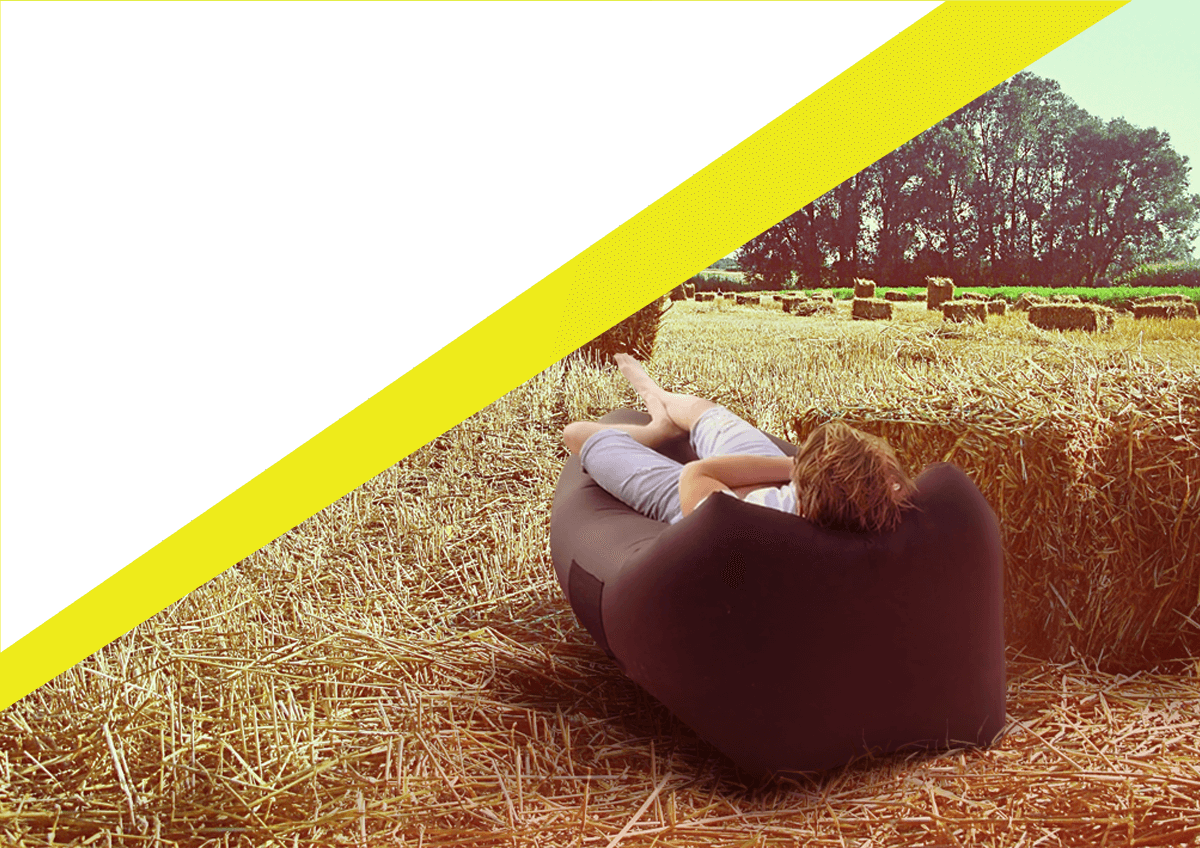
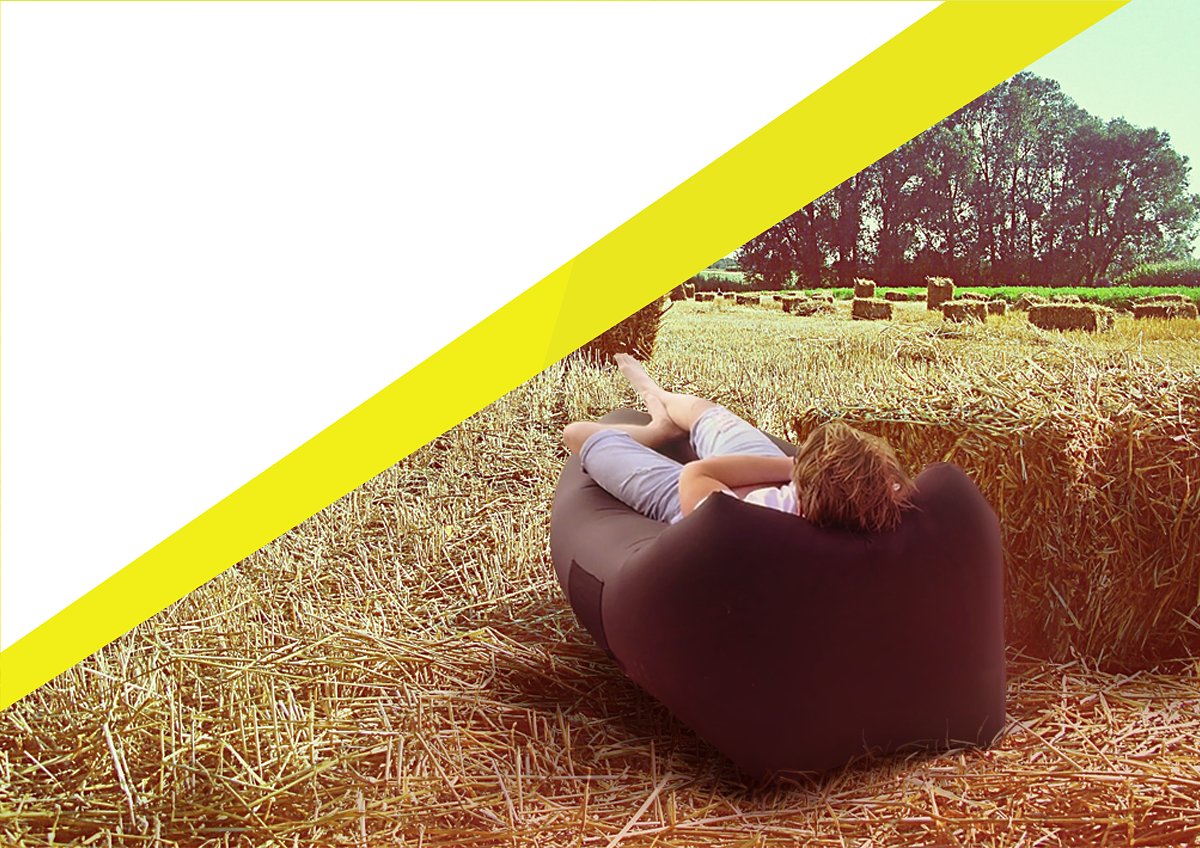
fix

diff --git a/other/bale/css/responsive.css b/other/bale/css/responsive.css
@@ -8,15 +8,14 @@
     
 }
 @media only screen 
-  and (min-device-width: 1700px) 
-  and (max-device-width: 1900px) 
-  and (-webkit-min-device-pixel-ratio: 1) {
+  and (min-width: 1700px) 
+  and (max-width: 1920px) {
     .arr-down {
       left: 200px;
     }
     
 }
-@media only screen and (max-device-width: 1024px) {
+@media only screen and (max-width: 1024px) {
   	#canvas {
     display: none;
   }

diff --git a/other/bale/css/style.css b/other/bale/css/style.css
@@ -124,7 +124,7 @@ body {
      opacity:1;
 }
 .block1 {
-  background: url(images/block1.png) no-repeat center;
+  background: url(images/block1-min.png) no-repeat center;
   background-size: cover;
   min-height: 850px;
   padding: 46px 39px;
